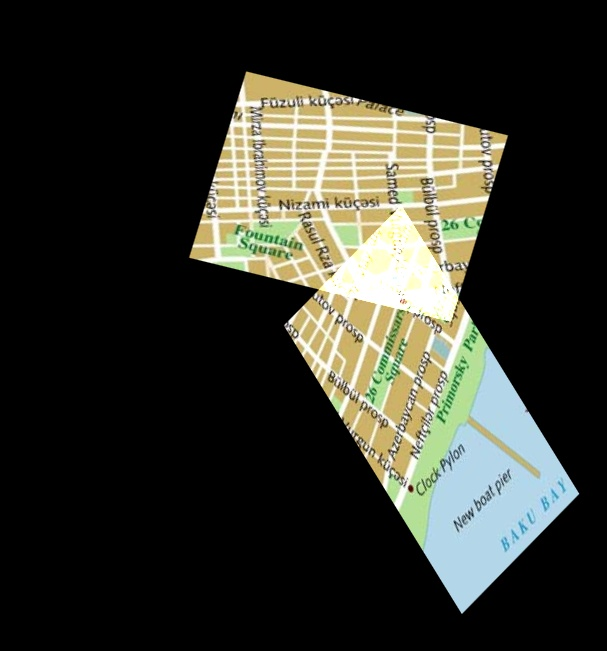
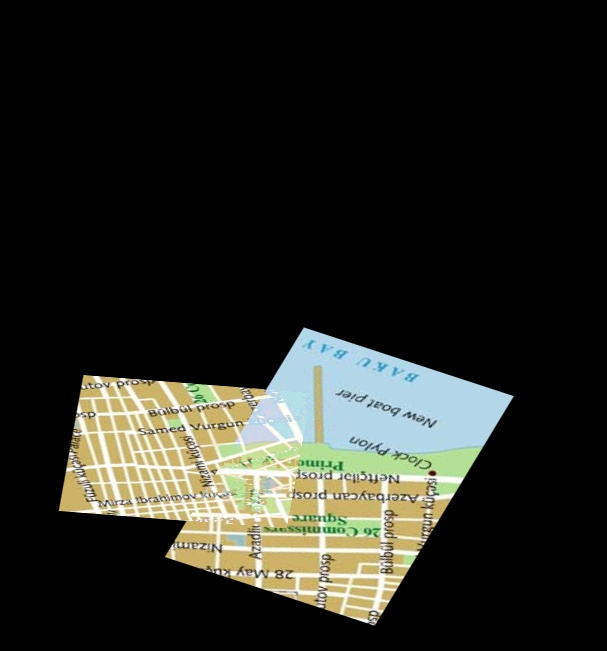
bug fixed, hard coded mask size for the coordinates inside the polygon

diff --git a/ImageStitcher.py b/ImageStitcher.py
@@ -50,15 +50,15 @@ class ImageStitcher:
         return [a,b,c,d,thetha,t_x,t_y, a1,b1,c1,d1,thetha1,t_x1,t_y1]
 
     def calculateLoss(self,parameters):
+        #sys.stdout.write("\r Parameters:{0}      ☚||||".format(parameters[:]))
         parameters = self.unnormalise(parameters)
         self.coor_system.set_rectangles(self.getCornersOfImages())
-        self.coor_system.set_canvas(self.canvas.shape[:2])
         coordinates_of_intersection = self.coor_system.get_indecies_on_rotate(parameters)
         if (coordinates_of_intersection == -1):
             return 255*3*self.w1*self.h1*self.h2*self.w2
         difference = np.square(np.subtract(self.canvas[coordinates_of_intersection[0]],self.canvas[coordinates_of_intersection[1]]))
         loss = np.mean(difference)
-        sys.stdout.write("\r Loss:{0}       ☚||||".format(loss))
+        sys.stdout.write("\r  Loss:{0}       ☚||||".format(loss))
         return loss
 
     def drawImage(self,param,time):
@@ -94,7 +94,8 @@ class ImageStitcher:
         vis1 = cv2.warpPerspective(vis1,M1,(w,h))
         M2 = np.float32([[a1*r_cos1,-b1*r_sin1, x_off1],[c1*r_sin1,d1*r_cos1,y_off1],[0,0,1]])
         vis2 =cv2.warpPerspective(vis2,M2,(w,h))
-        added_image = cv2.addWeighted(vis1,1,vis2,1,0)
+        vis1_without2 = cv2.subtract(vis1,vis2)
+        added_image = cv2.addWeighted(vis1_without2,1,vis2,1,0)
 
         cv2.imwrite("output.jpg",added_image)
         cv2.imshow('image',added_image)
@@ -121,6 +122,7 @@ class ImageStitcher:
         :3] = self.img2
         self.canvas[:self.h1,:self.w1,:3] = self.img1
         self.coor_system = CoordinateSystem((len(self.canvas[0])/2,len(self.canvas)/2))
+        self.coor_system.set_canvas(self.canvas.shape[:2])
 
     def run_nelder_mead(self,i,n):
         x0 = []
@@ -142,7 +144,7 @@ class ImageStitcher:
             for j in range(14):
                 param = random.uniform(0,1)
                 x0.append(param)
-            print("Iteration N: ",i+1,"/",n+1)
+            print("Iteration N: ",i+1,"/",n)
             res = minimize(self.calculateLoss,x0, method = 'nelder-mead', options={'disp':True})
             savedParameters[0].append(res.fun)
             savedParameters[1].append(res.x)
@@ -153,7 +155,7 @@ class ImageStitcher:
         print("\n\n\n\n\n\n")
         print("Error Index: ",minimumErrorIndex)
         print("Minimum Loss: ",savedParameters[0][minimumErrorIndex])
-        print("Parameters ",savedParameters[1])
+        print("Parameters ",savedParameters[1][minimumErrorIndex])
         self.best_parameters = savedParameters[1][minimumErrorIndex]
     
     def test_one_iter(self, x0):

diff --git a/CoordinateSystem.py b/CoordinateSystem.py
@@ -76,20 +76,20 @@ class CoordinateSystem:
     def get_coordinates_in_polygon(self, polygon):
         #Start = time.time()
         p1 = Polygon(self.rectangle1)
-        # if (polygon.area <= p1.area*0.04):
-        #     return -1
+        if (polygon.area <= p1.area*0.04):
+            return -1
         polygon = loads(dumps(polygon, rounding_precision=0))
         rectangle = list(polygon.exterior.coords)
         bounds = self.canvas.bounds
         height = int(bounds[3]) - int(bounds[1])
         width = int(bounds[2]) - int(bounds[0])
         p = Path(rectangle)
-        x, y = np.meshgrid(np.arange(1000), np.arange(1000)) # make a canvas with coordinates
+        x, y = np.meshgrid(np.arange(height), np.arange(width)) # make a canvas with coordinates
         x, y = x.flatten(), y.flatten()
         points = np.vstack((y,x)).T
 
         grid = p.contains_points(points)
-        mask = grid.reshape(1000,1000)
+        mask = grid.reshape(width,height)
         coords = np.nonzero(mask)
         coords = np.array(coords)
         coordsInTupples = list(tuple(map(tuple, coords.transpose())))
@@ -155,7 +155,6 @@ class CoordinateSystem:
         # plt.plot(x2, y2,color='blue')
         numpy_coords_1 = self.get_numpy_coords(initialPolygon1)
         numpy_coords_2 = self.get_numpy_coords(initialPolygon2)
-
         coordinates_in_polygon1 = self.make_image_format_indexing(numpy_coords_1)
         coordinates_in_polygon2 = self.make_image_format_indexing(numpy_coords_2)
         coordinates_in_polygon1 = self.makeImageCoordinateFormat(coordinates_in_polygon1)

diff --git a/main.py b/main.py
@@ -9,7 +9,7 @@ class main:
     def mosaic2Images(img1,img2):
         START_TIME = time.time()
         mosaic = ImageStitcher(img1.copy(),img2.copy(),False)
-        mosaic.mosaicImages(200)
+        mosaic.mosaicImages(3500)
         END_TIME = time.time()
         print("Time taken: ", format(END_TIME - START_TIME), " seconds")
         mosaic.drawImage(mosaic.best_parameters,0)
@@ -20,7 +20,7 @@ class main:
     if __name__=='__main__':
         
         clearScreen()
-        img1 = cv2.imread('images/Map1-rotate.png')
-        img2 = cv2.imread('images/Map2.png')  
+        img1 = cv2.imread('images/file.jpg')
+        img2 = cv2.imread('images/file1.jpg')  
         print("Starting the algorithm\n\n")
         mosaic2Images(img1,img2)

diff --git a/test_coor_system.py b/test_coor_system.py
@@ -4,9 +4,14 @@ import cv2
 img1 = cv2.imread('images/Map1-rotate.png')
 img2 = cv2.imread('images/Map2.png')  
 
-x0 = [1,2,2,1,0,120,100,1,1,1,1,-45,0,0]
+x0 = [0.67811993, 0.46246523, 0.2639719 , 0.05067076, 0.01803103, 0.12002536,
+ 0.58894882 ,0.71443625 ,0.66426334 ,0.38575423, 0.29171836, 0.56493315,
+ 0.187759,   0.26246541]
+
 stitcher =ImageStitcher(img1,img2,False)
+stitcher.set_canvas()
 stitcher.test_one_iter(x0)
+stitcher.drawImage(x0,0)
 
 
 
